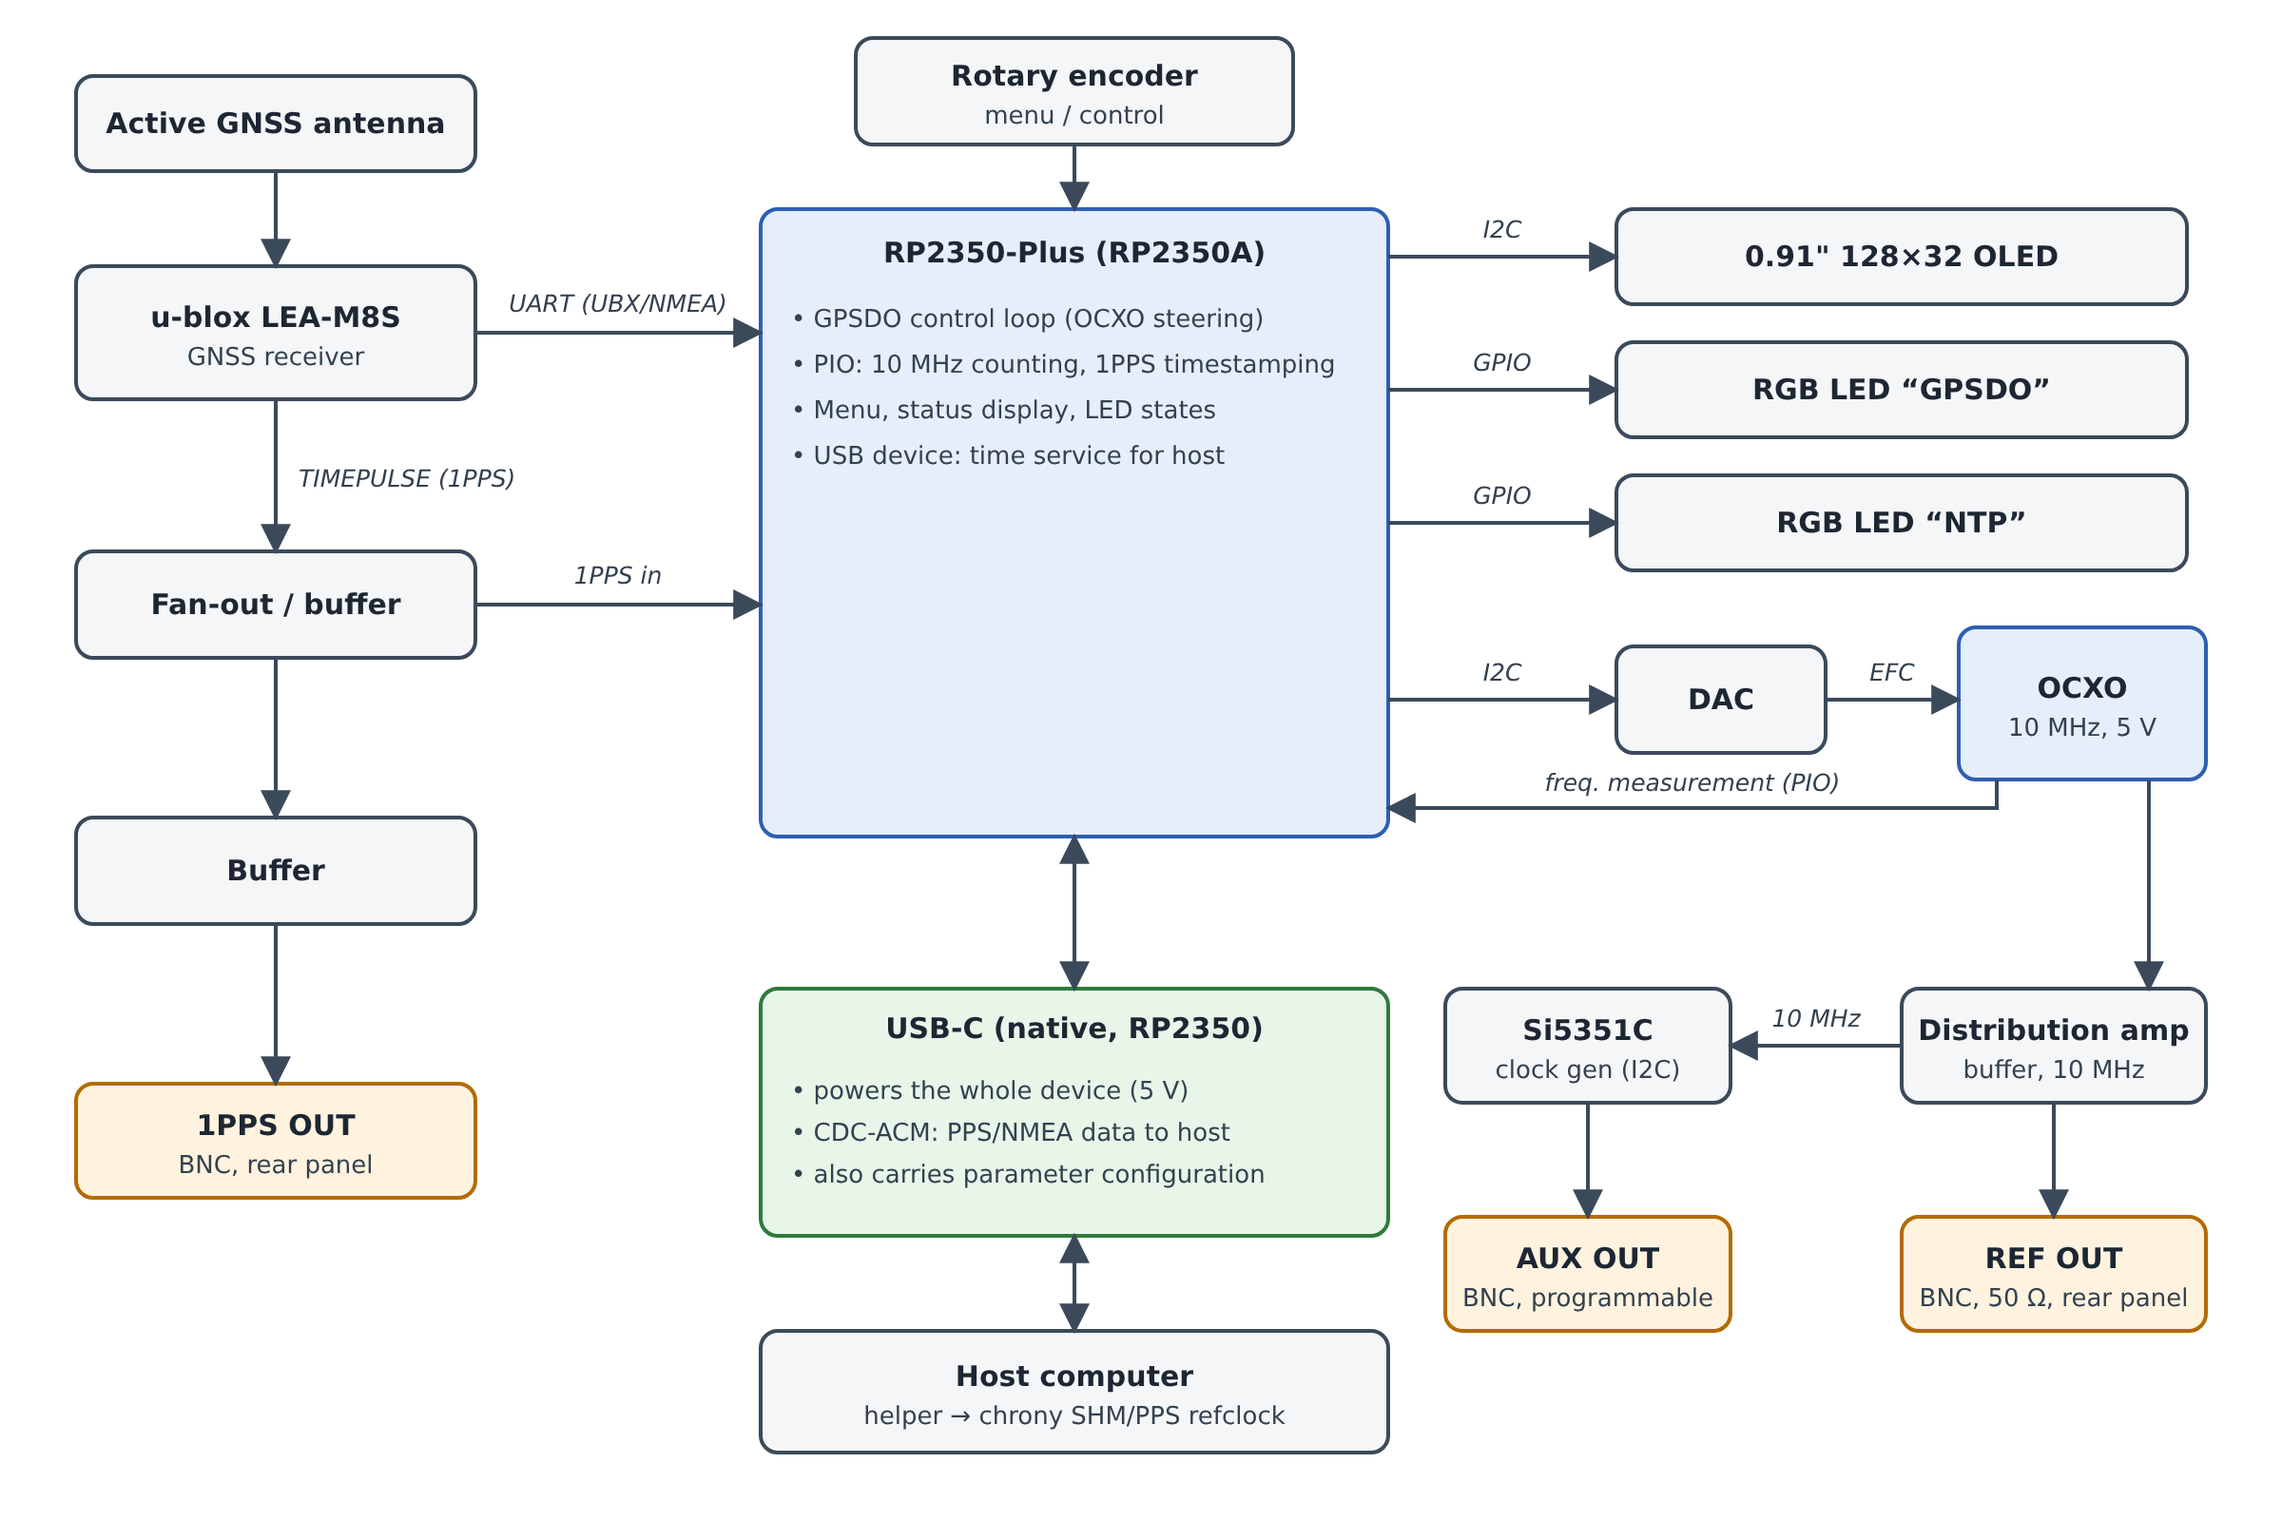
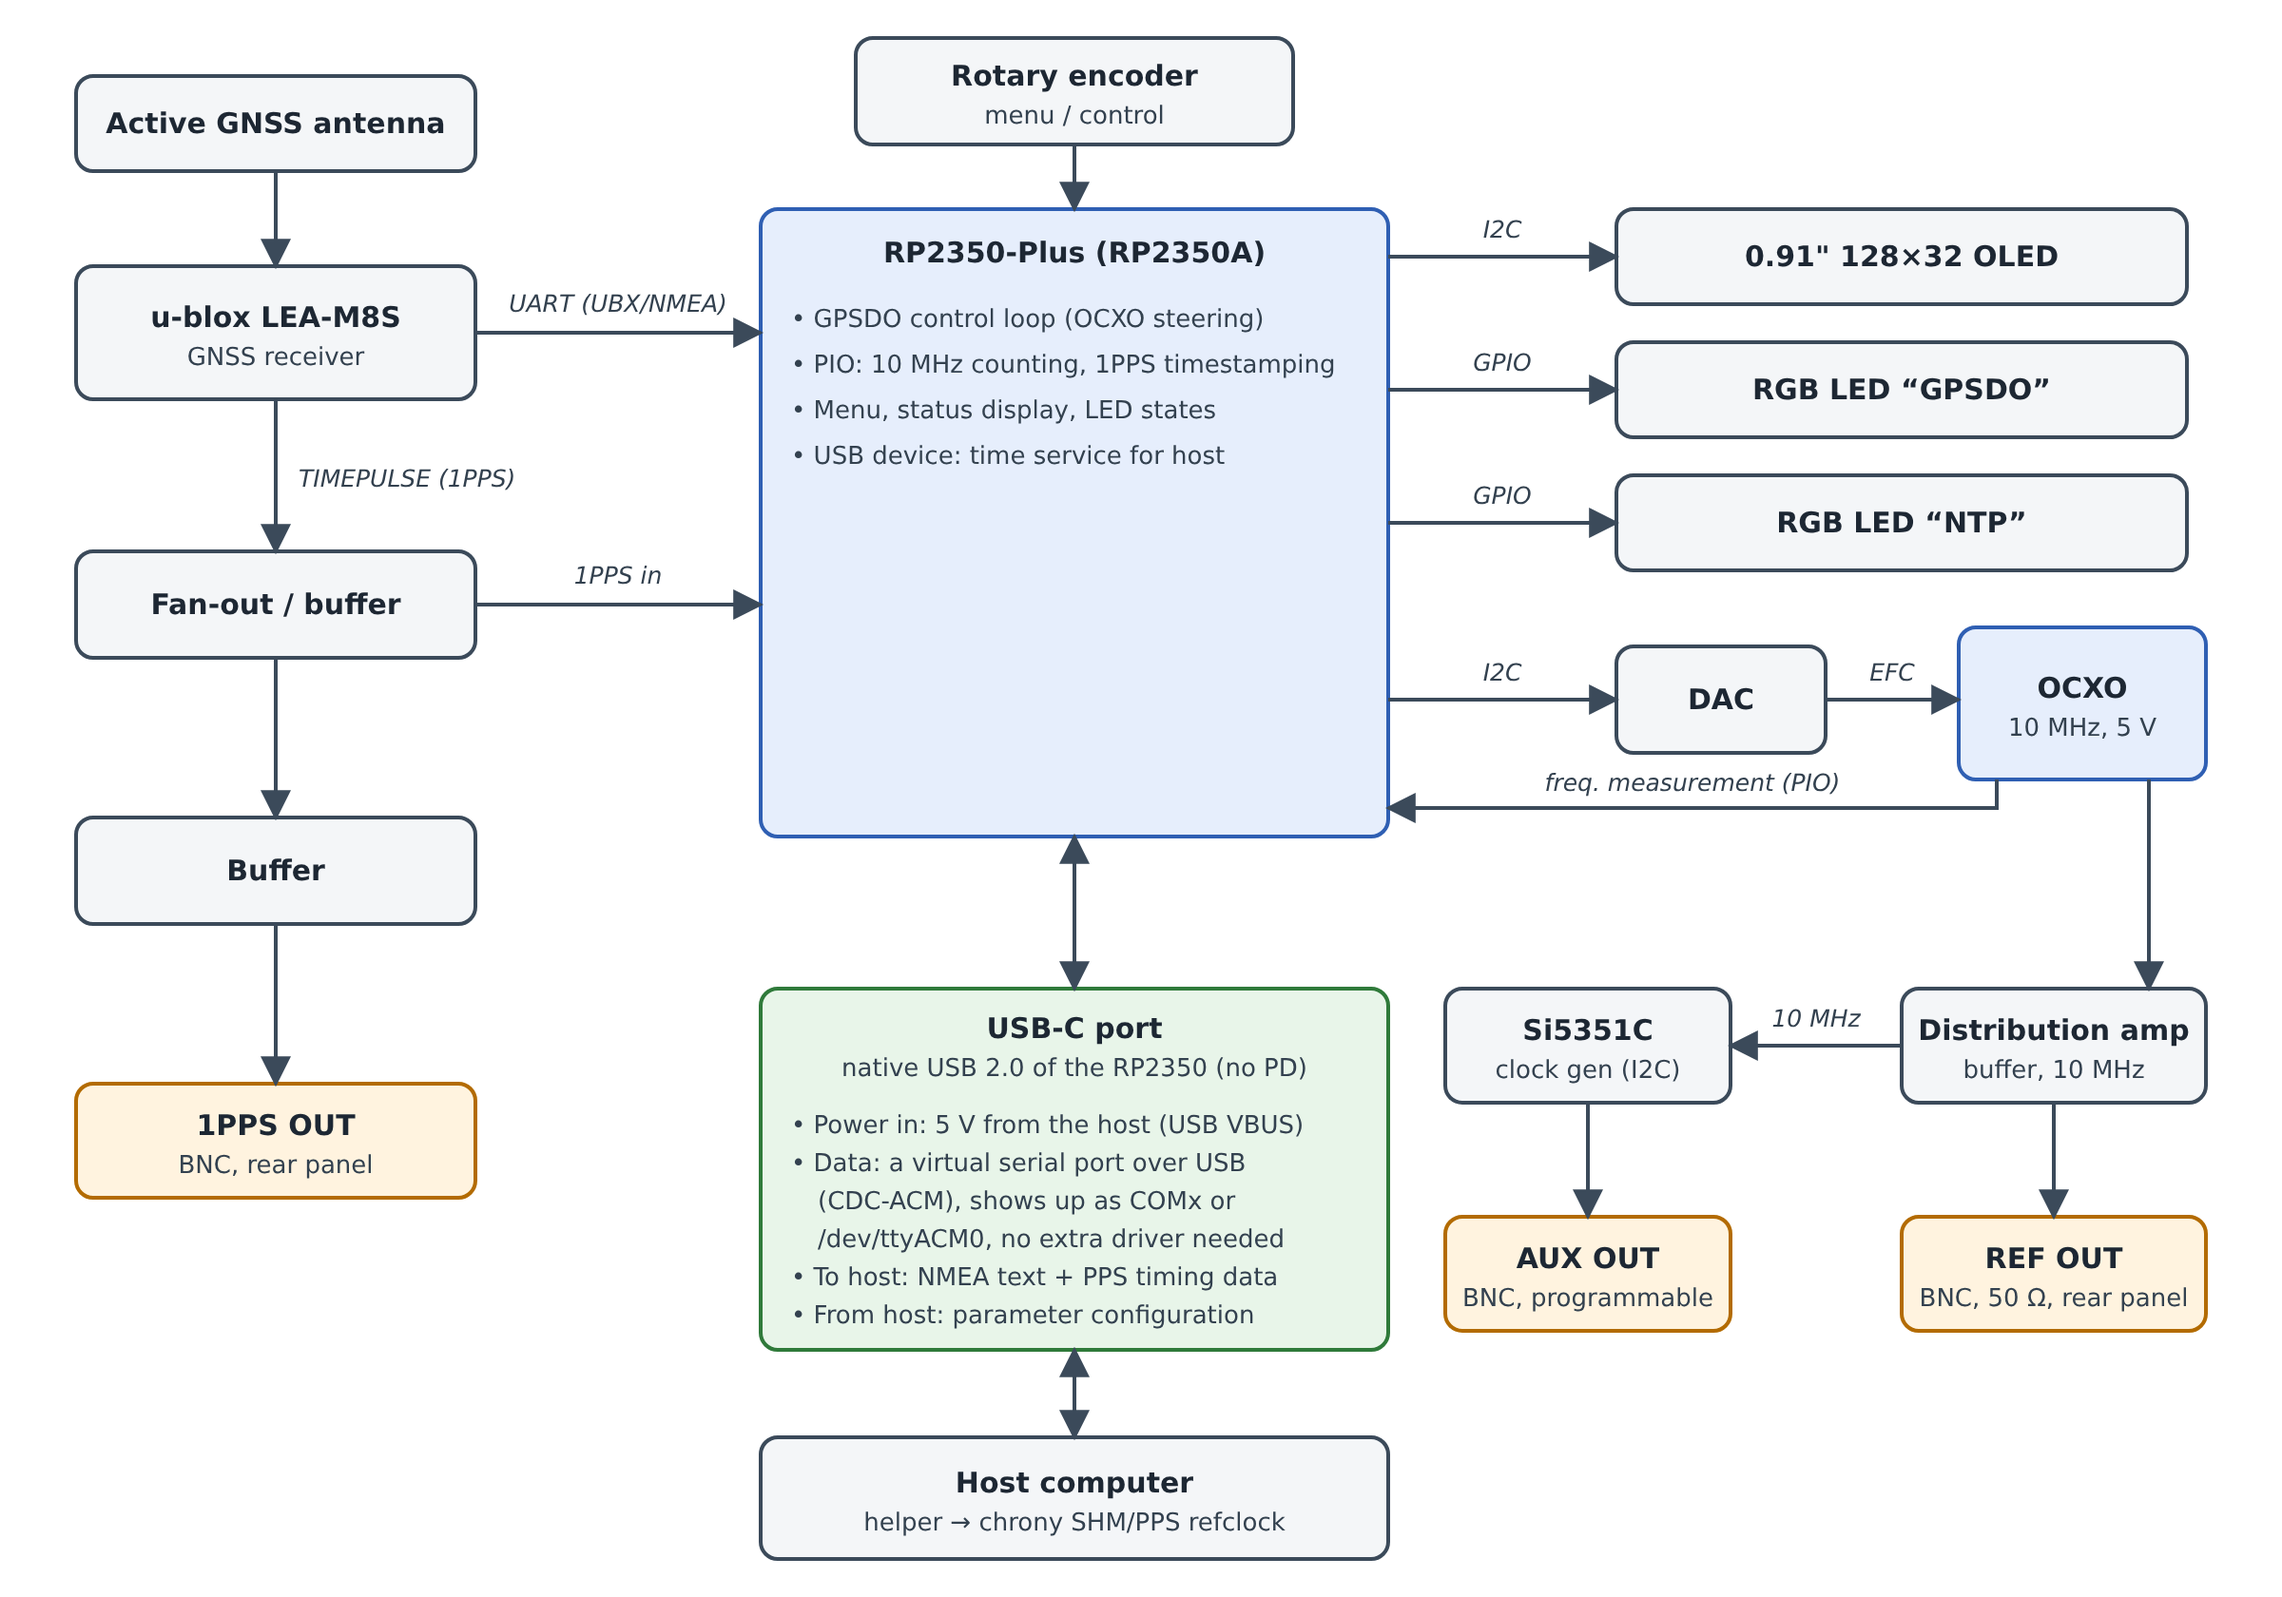
Architecture diagram: explain the USB-C port; add plain-language text and acronym table to README
Claude-Session: https://claude.ai/code/session_01BBEBh5Nhxyv6s49uSZkpLo

diff --git a/README.md b/README.md
@@ -53,6 +53,29 @@ The 22 mm limit also constrains component height on the PCB (OCXO included) — 
 
 The GNSS module's 1PPS (TIMEPULSE) disciplines the OCXO through the MCU: the RP2350 measures the 10 MHz against the PPS with PIO and steers the EFC through the DAC. REF OUT (10 MHz) comes from the OCXO itself, 1PPS OUT from the GNSS TIMEPULSE, and AUX OUT is a programmable output (Si5351C clocked from the OCXO).
 
+**What is the USB-C port, in plain words?** It is a normal USB-C connector (USB 2.0 only, no Power Delivery, so always 5 V) wired straight to the RP2350's own USB controller. One cable does two jobs: it powers the whole device and it carries data. The data side is a **virtual serial port over USB** (class CDC-ACM): the computer sees an ordinary serial port (`COMx` on Windows, `/dev/ttyACM0` on Linux, `/dev/cu.usbmodem…` on macOS) and needs no special driver. Over that port the device sends the GNSS text sentences and PPS timing data to a small helper program on the computer, which feeds chrony; the computer can also send configuration commands back.
+
+| Acronym | Meaning |
+|---|---|
+| GNSS | Global Navigation Satellite System: GPS, Galileo, GLONASS, BeiDou |
+| 1PPS / PPS | One Pulse Per Second: a pulse aligned to the start of each UTC second |
+| TIMEPULSE | u-blox name for the LEA-M8S's programmable timing-pulse output (here set to 1PPS) |
+| UART | Universal Asynchronous Receiver/Transmitter: the simple serial link between LEA-M8S and RP2350 |
+| NMEA | Text sentences (`$GPGGA`, `$GPRMC` …) in which GNSS receivers report time, position and satellites |
+| UBX | u-blox's own binary protocol, used to configure the LEA-M8S |
+| USB VBUS | The 5 V power line of a USB cable |
+| CDC-ACM | USB Communications Device Class, Abstract Control Model: the standard way to make a USB device look like a serial port |
+| PD | USB Power Delivery: negotiation of voltages above 5 V (not used here) |
+| I2C | Two-wire bus used for the OLED, the DAC and the Si5351C |
+| GPIO | General-purpose input/output pin (drives the status LEDs, reads the encoder) |
+| PIO | Programmable I/O: the RP2350's small hardware state machines that count the 10 MHz and timestamp the PPS without CPU jitter |
+| OCXO | Oven-Controlled Crystal Oscillator: a crystal kept at constant temperature, the source of the 10 MHz |
+| EFC | Electronic Frequency Control: the analog voltage input that fine-tunes the OCXO's frequency |
+| DAC | Digital-to-Analog Converter: turns the MCU's number into the EFC voltage |
+| SHM | Shared Memory: one of chrony's reference-clock interfaces, where the host helper hands over the timestamps |
+| chrony | The time-sync daemon on Linux/macOS that disciplines the computer's clock (an NTP implementation) |
+| NTP | Network Time Protocol |
+
 Key hardware decisions so far:
 
 | Item | Decision | Notes |
